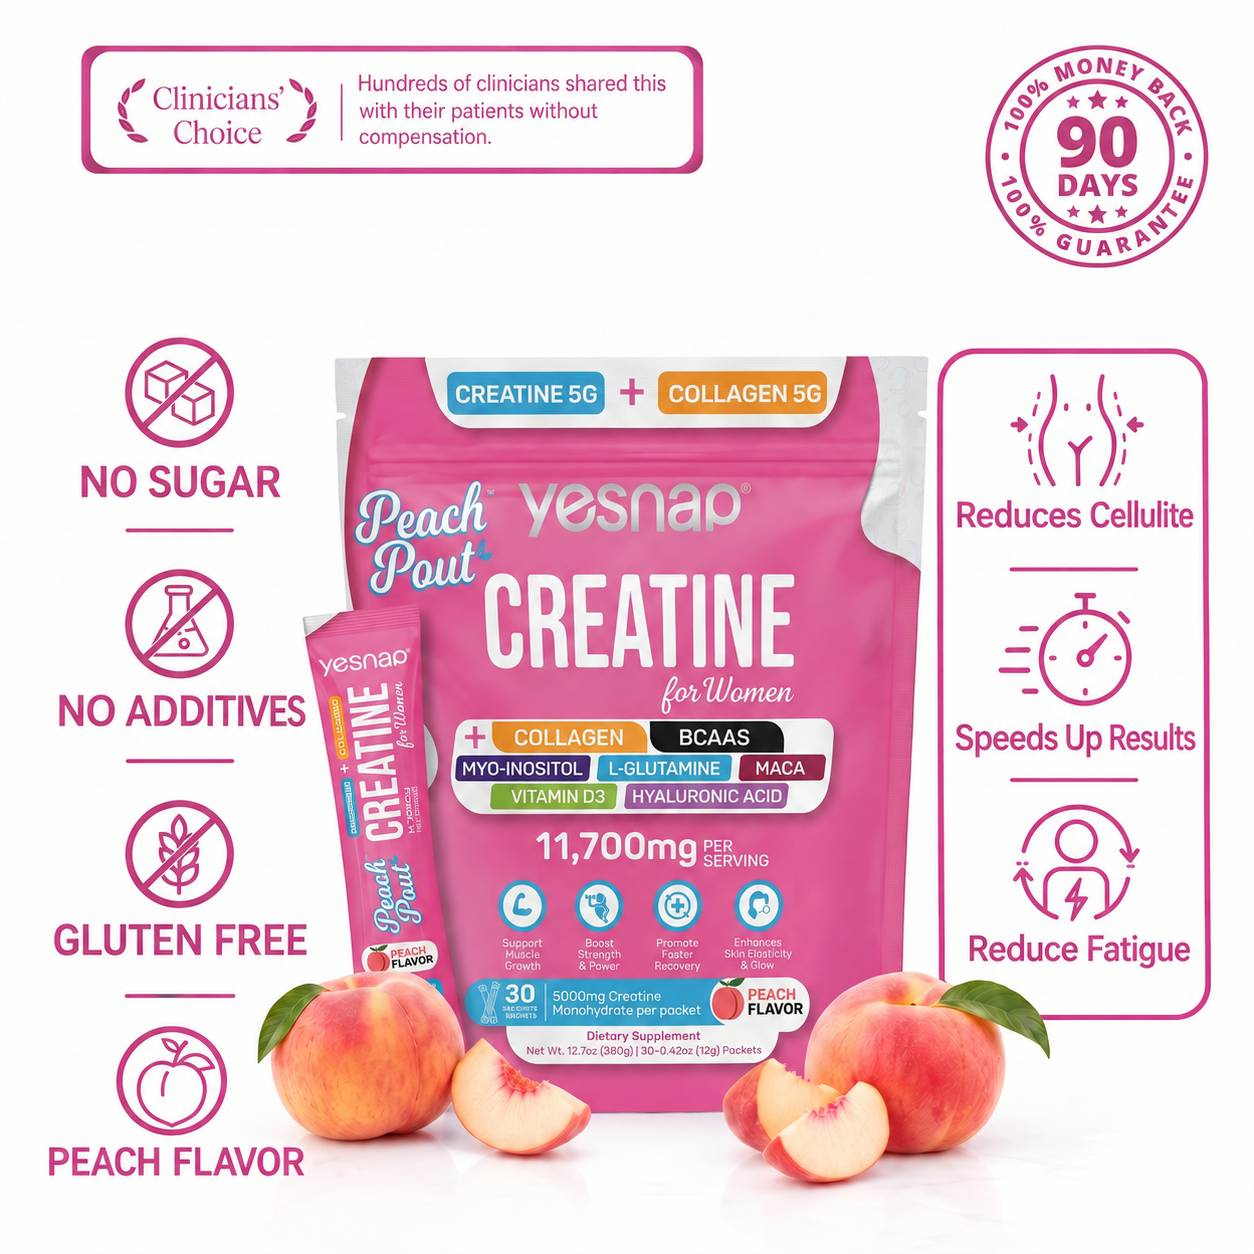
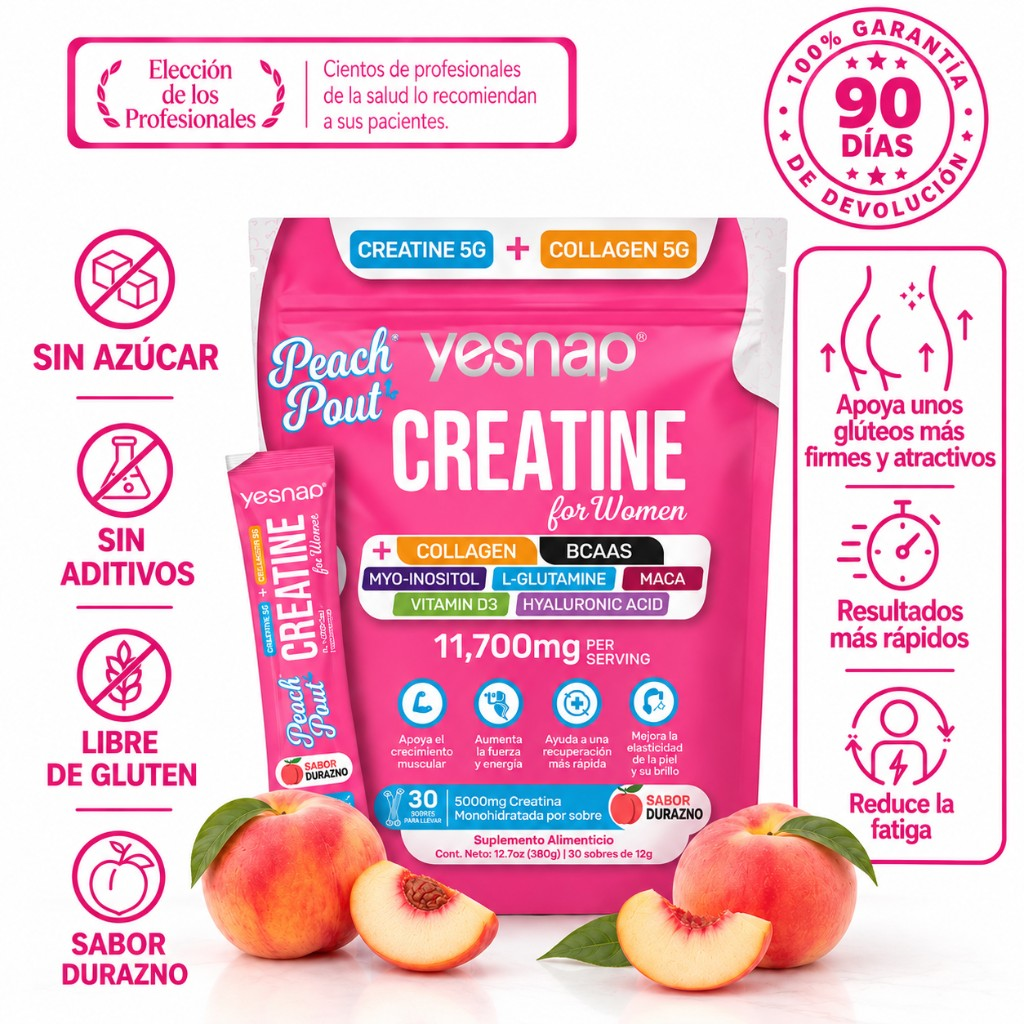
Replace creatine Panama hero gallery with new promotional images.
Add supplement-facts slide and cache-bust hero assets.

diff --git a/yesnap-creatine-women-panama.html b/yesnap-creatine-women-panama.html
@@ -42,24 +42,28 @@
         <section class="gallery" id="heroSection">
       <div class="gallery-stage" id="galleryTrack">
         <div class="slide">
-          <img class="is-contain" src="/images/yesnap-creatine-women/hero-product.jpg?v=20261025a" alt="Creatine for Women Peach Pout — bolsa con 30 sobres" width="1024" height="1024" loading="eager" fetchpriority="high" decoding="async">
+          <img class="is-contain" src="/images/yesnap-creatine-women/hero-product.jpg?v=20261025g" alt="Antes y después — creatina Peach Pout para mujeres" width="1024" height="1024" loading="eager" fetchpriority="high" decoding="async">
         </div>
         <div class="slide">
-          <img class="is-contain" src="/images/yesnap-creatine-women/hero-formula.jpg?v=20261025a" alt="Fórmula con creatina, colágeno y aminoácidos — sabor durazno" width="1024" height="1024" loading="lazy" decoding="async">
+          <img class="is-contain" src="/images/yesnap-creatine-women/hero-formula.jpg?v=20261025g" alt="Creatina para mujeres — elección de profesionales, sabor durazno" width="1024" height="1024" loading="lazy" decoding="async">
         </div>
         <div class="slide">
-          <img class="is-contain" src="/images/yesnap-creatine-women/hero-benefits.jpg?v=20261025a" alt="Beneficios para rutina fitness y bienestar" width="1024" height="1024" loading="lazy" decoding="async">
+          <img class="is-contain" src="/images/yesnap-creatine-women/hero-benefits.jpg?v=20261025g" alt="Ingredientes — creatina, colágeno, BCAA, glutamina y más" width="1024" height="1024" loading="lazy" decoding="async">
         </div>
         <div class="slide">
-          <img class="is-contain" src="/images/yesnap-creatine-women/hero-how-to.jpg?v=20261025a" alt="Sobres individuales — mezclar con agua" width="1024" height="1024" loading="lazy" decoding="async">
+          <img class="is-contain" src="/images/yesnap-creatine-women/hero-supplement-facts.jpg?v=20261025g" alt="Formulado para mujeres — 30 sobres, información del suplemento" width="1024" height="1024" loading="lazy" decoding="async">
+        </div>
+        <div class="slide">
+          <img class="is-contain" src="/images/yesnap-creatine-women/hero-how-to.jpg?v=20261025g" alt="Cómo usarla — mezcla un sobre con agua o tu bebida favorita" width="1024" height="1024" loading="lazy" decoding="async">
         </div>
       </div>
       <div class="gallery-dots" id="galleryDots" aria-hidden="true"></div>
       <div class="gallery-thumbs">
-        <button type="button" class="thumb is-active" aria-label="Foto 1"><img src="/images/yesnap-creatine-women/hero-product.jpg?v=20261025a" alt="" width="160" height="160" decoding="async"></button>
-        <button type="button" class="thumb" aria-label="Foto 2"><img src="/images/yesnap-creatine-women/hero-formula.jpg?v=20261025a" alt="" width="160" height="160" decoding="async" loading="lazy"></button>
-        <button type="button" class="thumb" aria-label="Foto 3"><img src="/images/yesnap-creatine-women/hero-benefits.jpg?v=20261025a" alt="" width="160" height="160" decoding="async" loading="lazy"></button>
-        <button type="button" class="thumb" aria-label="Foto 4"><img src="/images/yesnap-creatine-women/hero-how-to.jpg?v=20261025a" alt="" width="160" height="160" decoding="async" loading="lazy"></button>
+        <button type="button" class="thumb is-active" aria-label="Foto 1"><img src="/images/yesnap-creatine-women/hero-product.jpg?v=20261025g" alt="" width="160" height="160" decoding="async"></button>
+        <button type="button" class="thumb" aria-label="Foto 2"><img src="/images/yesnap-creatine-women/hero-formula.jpg?v=20261025g" alt="" width="160" height="160" decoding="async" loading="lazy"></button>
+        <button type="button" class="thumb" aria-label="Foto 3"><img src="/images/yesnap-creatine-women/hero-benefits.jpg?v=20261025g" alt="" width="160" height="160" decoding="async" loading="lazy"></button>
+        <button type="button" class="thumb" aria-label="Foto 4"><img src="/images/yesnap-creatine-women/hero-supplement-facts.jpg?v=20261025g" alt="" width="160" height="160" decoding="async" loading="lazy"></button>
+        <button type="button" class="thumb" aria-label="Foto 5"><img src="/images/yesnap-creatine-women/hero-how-to.jpg?v=20261025g" alt="" width="160" height="160" decoding="async" loading="lazy"></button>
       </div>
     </section>
 
@@ -383,7 +387,7 @@
     </div>
     <div class="order-body">
       <div class="order-product">
-        <img src="/images/yesnap-creatine-women/hero-product.jpg?v=20261025a" alt="" width="72" height="72" style="width:72px;height:72px;object-fit:contain;border-radius:8px;background:#f5f5f5">
+        <img src="/images/yesnap-creatine-women/hero-product.jpg?v=20261025g" alt="" width="72" height="72" style="width:72px;height:72px;object-fit:contain;border-radius:8px;background:#f5f5f5">
         <div>
           <strong>Creatine for Women Peach Pout</strong>
           <span>30 sobres · Envío gratis</span>
